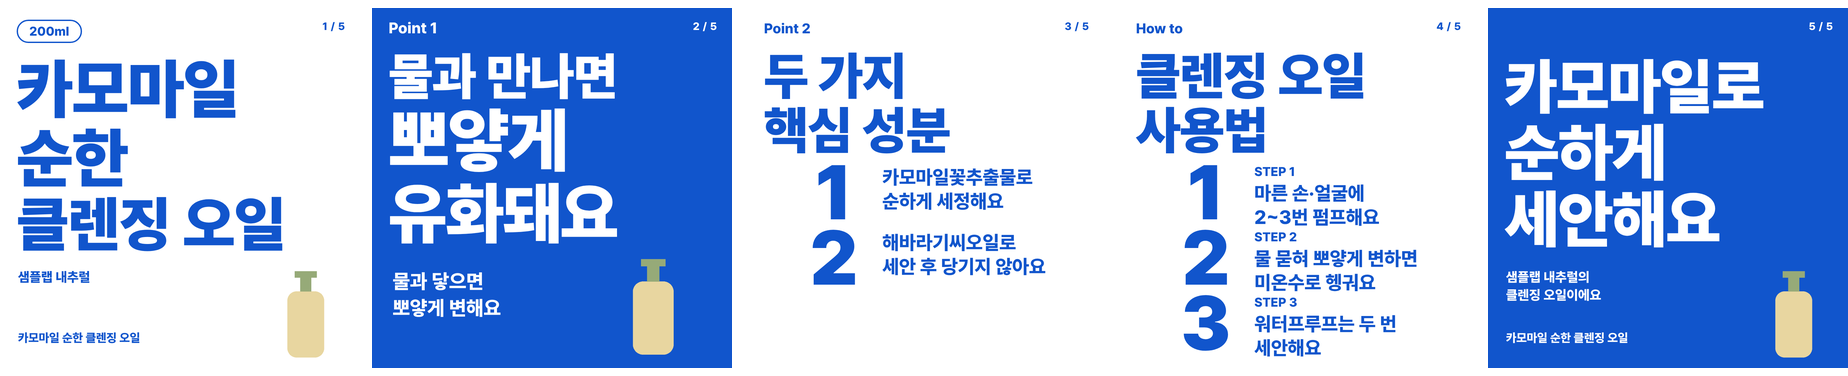
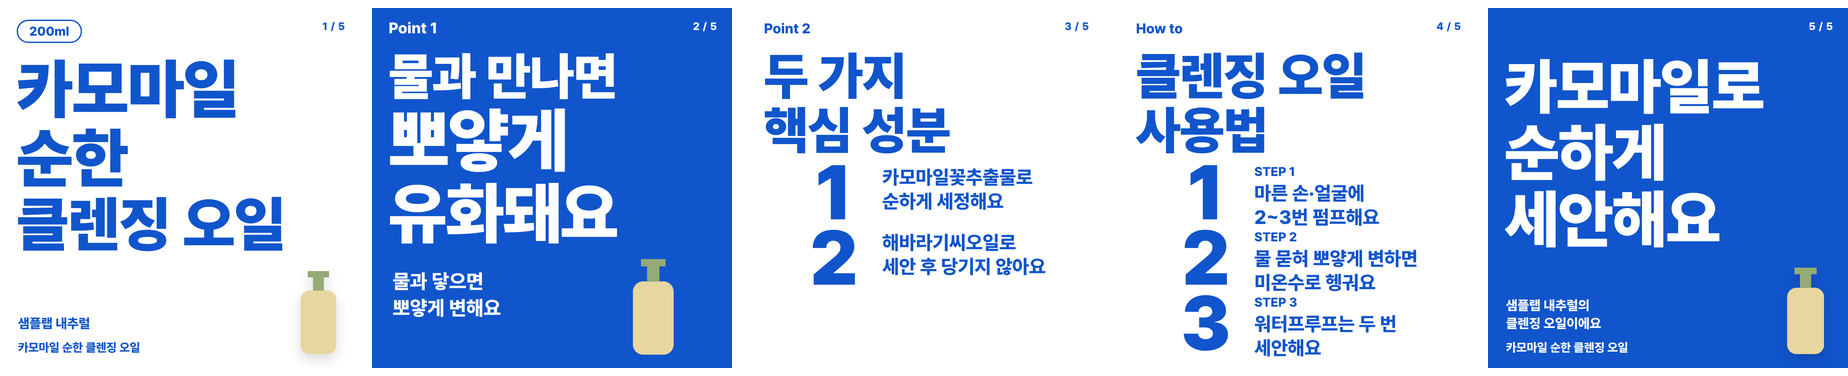
feat: 디자인 다듬기 — 기본 묶음 아치 디자인, 타이포·연출 제품 자리, 줄 길이 고르게 (#74)
- 기본: 진열장 아치 모양으로 표지·이미지형·설명형을 다시 씀. 제품은 남는 높이만큼 크게, 투명 여백 자르기(trimImage)
- 기본 글자 수 기준·문구 규칙은 그대로 (전체 채움 점검 통과), 출력 모양만 바뀜
- 타이포 표지: 제목 아래 남는 높이를 제품 자리로
- 연출: 표지 제품 크게, 제품 없는 설명 카드는 장면 띠를 얇게
- 공통: 자동 줄바꿈 줄 길이 고르게(text-wrap: balance)
- 시안 배치 기준값·design-sets 테스트·미리보기·인수인계 갱신

Claude-Session: https://claude.ai/code/session_018YrLzsCyGz4gDBsGGHA7XS

diff --git a/templates/cover.html b/templates/cover.html
@@ -1,25 +1,46 @@
-<!-- 표지형: 제목(필수) · 부제(선택) · 뱃지(선택) · 이미지(선택) -->
+<!-- 표지형: 제목(필수) · 부제(선택) · 뱃지(선택) · 이미지(선택)
+     디자인: 화장품 진열장의 아치 칸을 공통 모양으로 씀. 위쪽 무대(남는 높이 전부)에 아치 + 받침 위 제품을 크게,
+     아래에 제목·부제. 글자가 짧으면 무대가 커져 제품도 커짐. 마무리 카드는 아치를 왼쪽에 -->
 <style>
-  .card--cover { background: var(--color-accent); }
-  .cover__deco {
+  .card--cover { background: var(--color-bg); }
+  .cover__stage {
+    flex: 1;
+    min-height: 0;
+    position: relative;
+    margin: 20px 0 44px;
+  }
+  .cover__arch {
     position: absolute;
-    width: 760px; height: 760px;
-    right: -220px; top: -200px;
+    right: -96px; top: 0; bottom: -460px;   /* 오른쪽·아래로 카드 끝까지 이어짐 (글자 뒤) */
+    width: 560px;
+    border-radius: 280px 0 0 0;
+    background: linear-gradient(180deg, var(--color-accent) 0%, color-mix(in srgb, var(--color-accent) 70%, var(--color-surface)) 100%);
+  }
+  .cover__floor {
+    position: absolute;
+    right: 70px; bottom: 18px;
+    width: 360px; height: 46px;
     border-radius: 50%;
-    background: var(--color-bg);
-    opacity: 0.7;
+    background: radial-gradient(closest-side, color-mix(in srgb, var(--color-text) 22%, transparent), transparent);
   }
   .cover__image {
     position: absolute;
-    right: 96px; top: 140px;     /* 상단 바 바로 아래. 제목·부제가 최대 길이여도 겹치지 않는 크기 (npm run calibrate) */
-    width: 380px; height: 380px;
+    right: 30px; top: 44px; bottom: 36px;
+    width: 420px; height: auto;
+    max-height: calc(100% - 80px);
     object-fit: contain;
+    object-position: center bottom;
     z-index: 1;
   }
-  .no-image .cover__image { display: none; }
+  .role-closing .cover__arch { right: auto; left: -96px; border-radius: 0 280px 0 0; }
+  .role-closing .cover__floor { right: auto; left: 70px; }
+  .role-closing .cover__image { right: auto; left: 50px; }
+  .no-image .cover__image, .no-image .cover__floor { display: none; }
+  .no-image .cover__arch { width: 300px; opacity: .7; }
+  .card--cover .card__footer { position: relative; z-index: 2; }
   .cover__body {
-    margin-top: auto;
-    margin-bottom: 56px;
+    flex: none;
+    margin-bottom: 52px;
     position: relative;
     z-index: 2;
   }
@@ -32,30 +53,26 @@
     white-space: pre-line;
   }
   .cover__subtitle {
-    margin-top: 28px;
+    margin-top: 24px;
     font-size: 36px;
     font-weight: 400;
     line-height: 1.45;
-    color: var(--color-text);
+    color: var(--color-muted);
     max-height: 105px;           /* 2줄 */
     white-space: pre-line;
   }
-  .cover__rule {
-    width: 72px; height: 8px;
-    border-radius: 4px;
-    background: var(--color-primary);
-    margin-bottom: 36px;
-  }
 </style>
-<div class="card card--cover {{imageClass}}">
-  <div class="cover__deco"></div>
-  <img class="cover__image" src="{{image}}" alt="">
+<div class="card card--cover role-{{role}} {{imageClass}}">
   <header class="card__top">
     <span class="badge" data-fit>{{badge}}</span>
     <span class="pager">{{page}} / {{total}}</span>
   </header>
+  <div class="cover__stage">
+    <div class="cover__arch"></div>
+    <div class="cover__floor"></div>
+    <img class="cover__image" style="{{imageCrop}}" src="{{image}}" alt="">
+  </div>
   <div class="cover__body">
-    <div class="cover__rule"></div>
     <h1 class="cover__title" data-fit>{{title}}</h1>
     <p class="cover__subtitle" data-fit>{{subtitle}}</p>
   </div>

diff --git a/templates/typo/cover.html b/templates/typo/cover.html
@@ -5,12 +5,15 @@
 .typo [data-fit-lines] { padding:24px 0; }
 .typo .fit-line { display:table; white-space:nowrap; line-height:1.06; font-weight:900; letter-spacing:-0.01em; }
 .typo-cover .badge { position:absolute; left:50px; top:35px; height:70px; max-width:420px; padding:0 34px; border:4px solid var(--color-primary); border-radius:35px; background:transparent; color:var(--color-primary); font-size:38px; font-weight:800; line-height:62px; }
-.typo-cover__title { position:absolute; left:50px; top:116px; width:980px; max-height:656px; color:var(--color-primary); }
-.typo-cover__copy { position:absolute; left:54px; top:780px; width:640px; font-size:40px; font-weight:800; line-height:1.35; max-height:108px; color:var(--color-primary); }
-.typo-cover__visual { position:absolute; right:92px; bottom:30px; width:140px; height:262px; }
-.typo-cover__photo { display:block; width:100%; height:100%; object-fit:contain; object-position:center bottom; }
-.typo-cover__footer { position:absolute; left:54px; top:968px; font-size:36px; font-weight:800; color:var(--color-primary); }
-.typo-cover.no-image .typo-cover__visual { display:none; }
+/* 제목은 위에서부터 자연 높이, 남는 높이 전부가 아래 줄(왼쪽 부제·제품명 / 오른쪽 제품). 제목이 짧으면 제품이 커짐 */
+.typo-cover__title { flex:none; margin:116px 0 0 50px; width:980px; max-height:656px; color:var(--color-primary); }
+.typo-cover__low { flex:1; min-height:0; display:flex; align-items:flex-end; gap:24px; padding:0 70px 40px 54px; }
+.typo-cover__text { flex:none; width:600px; }
+.typo-cover__copy { font-size:40px; font-weight:800; line-height:1.35; max-height:108px; color:var(--color-primary); }
+.typo-cover__footer { margin-top:24px; font-size:36px; font-weight:800; color:var(--color-primary); }
+.typo-cover__visual { flex:1; align-self:stretch; min-width:0; min-height:240px; padding-top:20px; }
+.typo-cover__photo { display:block; width:100%; height:100%; max-height:470px; margin-left:auto; object-fit:contain; object-position:right bottom; filter:drop-shadow(0 16px 18px rgb(0 0 0 / .14)); }
+.typo-cover.no-image .typo-cover__photo { display:none; }
 .typo-cover.role-closing { background:var(--color-primary); }
 .typo-cover.role-closing .typo-cover__title, .typo-cover.role-closing .typo-cover__copy, .typo-cover.role-closing .typo-cover__footer, .typo-cover.role-closing .pager { color:var(--color-on-primary); }
 .typo-cover.role-closing .badge { color:var(--color-on-primary); border-color:var(--color-on-primary); }
@@ -18,7 +21,11 @@
 <article class="card typo typo-cover role-{{role}} {{imageClass}}">
   <span class="badge" data-fit>{{badge}}</span><span class="pager">{{page}} / {{total}}</span>
   <h1 class="typo-cover__title" data-fit data-fit-lines="230,110">{{title}}</h1>
-  <div class="typo-cover__copy" data-fit>{{subtitle}}</div>
-  <div class="typo-cover__visual"><img class="typo-cover__photo" style="{{imageCrop}}" src="{{image}}" alt=""></div>
-  <div class="typo-cover__footer">{{product}}</div>
+  <div class="typo-cover__low">
+    <div class="typo-cover__text">
+      <div class="typo-cover__copy" data-fit>{{subtitle}}</div>
+      <div class="typo-cover__footer">{{product}}</div>
+    </div>
+    <div class="typo-cover__visual"><img class="typo-cover__photo" style="{{imageCrop}}" src="{{image}}" alt=""></div>
+  </div>
 </article>

diff --git a/templates/image.html b/templates/image.html
@@ -1,21 +1,32 @@
-<!-- 이미지 강조형: 이미지(필수) · 제목(필수) · 설명(선택) -->
+<!-- 이미지 강조형: 이미지(필수) · 제목(필수) · 설명(선택)
+     디자인: 위쪽이 둥근 아치 창(표지와 같은 모양) 안에 제품을 크게, 바닥 그림자. 아래 제목·설명 -->
 <style>
   .image__frame {
     flex: 1;
     min-height: 0;
-    margin: 32px 0 44px;
-    border-radius: 36px;
-    background: var(--color-surface);
-    display: flex;
-    align-items: center;
-    justify-content: center;
+    position: relative;
+    margin: 24px 0 44px;
+    border-radius: 444px 444px 32px 32px;
+    background: linear-gradient(180deg, var(--color-accent) 0%, color-mix(in srgb, var(--color-accent) 60%, var(--color-surface)) 100%);
     overflow: hidden;
   }
+  .image__frame::after {
+    content: "";
+    position: absolute;
+    left: 50%; bottom: 22px;
+    width: 420px; height: 50px;
+    transform: translateX(-50%);
+    border-radius: 50%;
+    background: radial-gradient(closest-side, color-mix(in srgb, var(--color-text) 22%, transparent), transparent);
+  }
   .image__frame img {
+    position: absolute;
+    left: 0; right: 0; top: 44px; bottom: 40px;
     width: 100%;
-    height: 100%;
+    height: calc(100% - 84px);
     object-fit: contain;
-    padding: 40px;
+    object-position: center bottom;
+    z-index: 1;
   }
   .image__title {
     flex: none;
@@ -28,7 +39,7 @@
   }
   .image__caption {
     flex: none;
-    margin-top: 20px;
+    margin-top: 18px;
     margin-bottom: 36px;
     font-size: 34px;
     line-height: 1.5;
@@ -42,7 +53,7 @@
     <span class="badge" data-fit></span>
     <span class="pager">{{page}} / {{total}}</span>
   </header>
-  <div class="image__frame"><img src="{{image}}" alt=""></div>
+  <div class="image__frame"><img style="{{imageCrop}}" src="{{image}}" alt=""></div>
   <h2 class="image__title" data-fit>{{title}}</h2>
   <p class="image__caption" data-fit>{{caption}}</p>
   <footer class="card__footer">{{product}}</footer>

diff --git a/templates/band/cover.html b/templates/band/cover.html
@@ -18,7 +18,7 @@
 .band-label { position:absolute; display:flex; align-items:center; gap:36px; font-size:44px; font-weight:800; line-height:1.2; color:var(--color-primary); z-index:2; }
 .band-label::after { content:""; width:100px; height:3px; background:var(--color-primary); }
 .band-cover .band__scene { height:620px; --band-fade:150px; --band-floor:32%; }
-.band-cover .band__photo { left:400px; top:150px; width:540px; height:350px; }
+.band-cover .band__photo { left:400px; top:96px; width:540px; height:412px; }
 .band-cover .badge { position:absolute; left:60px; top:57px; height:66px; max-width:420px; padding:0 42px; border:3px solid #FFFFFF; border-radius:33px; background:transparent; color:#FFFFFF; font-size:40px; font-weight:800; line-height:60px; z-index:3; }
 .band-cover__title { position:absolute; left:88px; top:652px; width:904px; font-size:78px; font-weight:800; line-height:1.22; letter-spacing:-0.01em; max-height:286px; color:var(--color-text); z-index:2; }
 .band-cover__copy { position:absolute; left:88px; top:978px; width:904px; font-size:36px; font-weight:500; line-height:1.3; max-height:47px; color:var(--color-muted); z-index:2; }
@@ -27,7 +27,7 @@
 .band-cover.no-image .band__photo { display:none; }
 </style>
 <article class="card band band-cover role-{{role}} {{imageClass}} {{sceneClass}}">
-  <div class="band__scene image__frame" aria-hidden="true"><img class="band__scene-img" src="{{scene}}" alt=""><div class="band__stage" style="left:500px; top:470px; width:340px; height:64px"></div></div>
+  <div class="band__scene image__frame" aria-hidden="true"><img class="band__scene-img" src="{{scene}}" alt=""><div class="band__stage" style="left:500px; top:478px; width:340px; height:64px"></div></div>
   <img class="band__photo" style="{{imageCrop}}" src="{{image}}" alt="">
   <span class="badge" data-fit>{{badge}}</span><span class="pager">{{page}} / {{total}}</span>
   <h1 class="band-cover__title" data-fit>{{title}}</h1>

diff --git a/templates/description.html b/templates/description.html
@@ -1,8 +1,9 @@
-<!-- 설명형: 제목(필수) · 항목 1~3개(필수) -->
+<!-- 설명형: 제목(필수) · 항목 1~3개(필수)
+     디자인: 상자 대신 가는 선으로 나눈 줄. 번호는 표지·이미지 카드와 같은 아치 모양 작은 칸. 줄은 남는 높이에 고르게 놓임 -->
 <style>
   .desc__title {
     flex: none;
-    margin-top: 40px;
+    margin-top: 44px;
     font-size: 64px;
     font-weight: 800;
     line-height: 1.25;
@@ -12,29 +13,32 @@
   }
   .desc__list {
     list-style: none;
-    margin-top: 56px;
+    flex: 1;
+    min-height: 0;
+    margin: 40px 0 32px;
     display: flex;
     flex-direction: column;
-    gap: 24px;
+    justify-content: center;
     counter-reset: item;
   }
   .desc__item {
     display: flex;
     align-items: center;
-    gap: 32px;
-    padding: 36px 40px;
-    border-radius: 28px;
-    background: var(--color-surface);
+    gap: 40px;
+    padding: 34px 0;
+    border-top: 2px solid color-mix(in srgb, var(--color-text) 12%, transparent);
     counter-increment: item;
   }
+  .desc__item:last-child { border-bottom: 2px solid color-mix(in srgb, var(--color-text) 12%, transparent); }
   .desc__item::before {
-    content: counter(item, decimal-leading-zero);
+    content: counter(item);
     flex: none;
-    width: 72px; height: 72px;
-    border-radius: 50%;
+    width: 76px; height: 92px;
+    padding-top: 10px;
+    border-radius: 38px 38px 12px 12px;
     background: var(--color-accent);
     color: var(--color-primary);
-    font-size: 28px;
+    font-size: 40px;
     font-weight: 800;
     display: flex;
     align-items: center;

diff --git a/templates/band/description.html b/templates/band/description.html
@@ -28,6 +28,12 @@
 .band-description.role-usage .desc__item { padding-left:320px; }
 .band-description.role-usage .desc__item::after { content:'STEP ' counter(points); position:absolute; left:130px; top:24px; font-size:36px; font-weight:800; color:var(--color-primary); }
 .band-description.no-image .band__photo { display:none; }
+/* 제품 사진이 없는 설명 카드: 장면 띠를 얇게 줄이고 글을 위로 올림 (빈 띠가 크게 남지 않게) */
+.band-description.no-image .band__scene { height:150px; }
+.band-description.no-image .band__scene::before { display:none; }
+.band-description.no-image .band-label { top:212px; }
+.band-description.no-image .band-description__title { top:278px; }
+.band-description.no-image .band-description__items { top:500px; }
 </style>
 <article class="card band band-description role-{{role}} {{imageClass}} {{sceneClass}}">
   <div class="band__scene image__frame" aria-hidden="true"><img class="band__scene-img" src="{{scene}}" alt=""><div class="band__stage" style="left:595px; top:262px; width:210px; height:38px"></div></div>

diff --git a/templates/base.css b/templates/base.css
@@ -66,5 +66,5 @@ body {
 }
 
 /* 글자 영역 공통: 높이를 고정하고 넘치면 출력 프로그램이 OVERFLOW로 판정 */
-[data-fit] { overflow: hidden; }
+[data-fit] { overflow: hidden; text-wrap: balance; }   /* 자동 줄바꿈 때 마지막 줄에 한 단어만 남지 않게 줄 길이를 고르게 */
 [data-fit]:empty { display: none; }

diff --git a/docs/handoff.md b/docs/handoff.md
@@ -8,6 +8,7 @@
 
 | 날짜 | 도구 | 이슈·브랜치 | 바뀐 점 |
 |---|---|---|---|
+| 2026-10-27 | Claude | #74 · `feat/74-new-designs` | **디자인 다듬기 — 기본 묶음 포함** (이규동 "못생겼어, 기존 것부터 이쁘게"; 실제 제품 사진인 달바 퍼플로 5묶음 출력해 보며 고침): **기본** 템플릿 다시 씀 — 화장품 진열장 아치 모양을 공통으로(표지: 오른쪽·아래로 이어지는 아치 + 받침 그림자 위 제품, 남는 높이만큼 제품이 커짐 / 이미지형: 위가 둥근 아치 창 / 설명형: 상자 대신 가는 선 줄 + 아치 모양 번호 칸), 기본 cover·image에 `trimImage`(투명 여백 자르기, 프리미엄과 같은 방식)·`role-*` 클래스. **글자 수 기준·문구 규칙은 그대로**(calibrate 전체 채움 통과), PNG만 달라짐 → 기본으로 낸 이전 평가 PNG와 모양이 다름. **타이포** 표지: 제목 아래 남는 높이 전부를 제품 자리로(짧은 제목이면 제품이 큼, 겹침 없음). **연출**: 표지 제품 크게, 제품 사진 없는 설명 카드는 장면 띠를 150px로 줄이고 글을 올림. **공통** `base.css` `[data-fit]`에 `text-wrap: balance`(자동 줄바꿈 때 끝에 한 단어만 남지 않게). 시안 배치 기준값은 바뀐 두 곳(타이포 표지 제품 칸·연출 표지 제품)만 갱신. `design-sets.test.js`의 "기본은 role·여백 자르기 안 씀" 확인을 새 동작으로 바꿈 |
 | 2026-10-27 | Claude | #74 · `feat/74-new-designs` | **새 묶음 시안 충실도 재구성** (이규동 "시안이랑 너무 다르다 → 색뿐 아니라 디자인도 유지"): 시안 10·06·02를 1080px로 잘라 좌표·글자 크기·색을 재고 템플릿을 다시 씀. 같은 문구로 시안·출력을 나란히 비교하며 맞춤. **색**: 묶음 고유 팔레트 `_designs.<묶음>._theme`(color·font.files·contrast), 세 묶음 카드 색 기본값 `제품 색`→`기본`(고유색). 큰 글자 색 짝은 `_theme.contrast`로 대비 3.0 허용(`checkContrast`·`adjustContrast`·`decideColors` `pairMin`). 웹 데이터 색은 7개만 내보냄. **사진 자리**: 입력 이미지 5번째 칸 `용도`(제품·제형·배경, 비우면 제품; 양식·작업실 폼·check 경고), 템플릿 `{{texture}}`·`{{scene}}`(+`has-*` 클래스). 타이포·팝 특징 카드는 제형, 연출 띠 위쪽은 배경 사진(없으면 스튜디오 무대: 짙은 파랑 벽·바닥 경계·유리 받침, 흐림 없음 — 처음 넣은 빛 번짐·흐림 대체 화면은 어색하다는 의견으로 바꿈). 카드 색 대표 사진에서 제형·배경 제외, Skill에 "카드 image는 제품 용도만" 한 줄. **줄 맞춤**: 굵기 900 글꼴을 먼저 불러온 뒤 크기 맞춤(`waitForFit`), 칸 높이 넘으면 줄 일괄 축소, 최소 크기로도 안 들어가면 줄바꿈. **점검**: 이미지 겹침은 실제 글자 줄 상자로(오탐 줄임), 글자 칸끼리 겹침 경고·calibrate 실패 추가. `tests/design-fidelity.test.js` + `tests/fixtures/design-fidelity.json`(주요 요소 위치·크기·색 기준값, ±14px)으로 배치 고정, `tests/image-kinds.test.js`. 글자 수 기준·`_measured` 재측정(전체 채움 5묶음 모두 통과), 미리보기 다시 만듦. **Skill·config 바뀜 → 규칙 버전 결정 필요** |
 | 2026-10-26 | Claude | #74 · `feat/74-new-designs` | **디자인 묶음 2단계 — 새 묶음 3개**: GPT 시안 10종(이규동, 내부 참고·저장소에 안 올림) 중 이규동이 고른 10·06·02를 `타이포`(큰 타이포, `templates/typo/`)·`팝`(팝 컬러블록, `templates/pop/`)·`연출`(위쪽 연출 띠, `templates/band/`)로 구현. `_designs`·`_catalog`(설명·fits·avoid·needs·version 1·`docs/designs/*/preview.png`), 입력 무드 선택지에 추가. 색은 카드 색 7개만 쓰고 보색은 CSS 상대 색(장식용, 글자 없음). 연출 띠는 배경 사진 대신 제품 색 짙은 띠. calibrate 전체 채움 통과(타이포 52·팝 64·연출 64), `tests/new-designs-render.test.js`(test:render). 기존 기본·프리미엄 그대로 |
 | 2026-10-26 | Claude | #74 · `feat/74-design-records` | **디자인 묶음 4단계 — 기록에 남기기**: `designRecord()`(`common.js`: `id`·`name`·`version`·`source`·`selected_by`·`reason`). `render-report.json` `design` + 출력 첫 줄 '디자인 묶음: …'. 웹 데이터 `project.json` `design`(v0.3 선택 칸, 스키마·타입), V2 카드 결과 '디자인 묶음' 섹션. 평가 `result.json` `design`(선택 칸). A6 비교: `consistency.design_match`, 묶음별 `designs` 횟수, CLI 줄. 예시 웹 데이터(toneup-sunscreen-r1)에 `design` 추가. 결과(PNG·문구)는 같음 |

diff --git a/docs/designs/README.md b/docs/designs/README.md
@@ -4,6 +4,7 @@
 
 | 묶음 (입력 `무드` 값) | 이름 | 폴더 | 원본 시안 |
 |---|---|---|---|
+| `기본` | 기본 | `templates/*.html` | 2026-10-27 다시 디자인: 화장품 진열장 아치 모양 (미리보기 없음) |
 | `프리미엄` | 프리미엄 | `templates/premium/` | 이용석 라일락 → 프리미엄 (#53·#65) |
 | `타이포` | 큰 타이포 | `templates/typo/` | GPT 시안 10 '블루 타이프' |
 | `팝` | 팝 컬러블록 | `templates/pop/` | GPT 시안 06 '듀 팝' |
